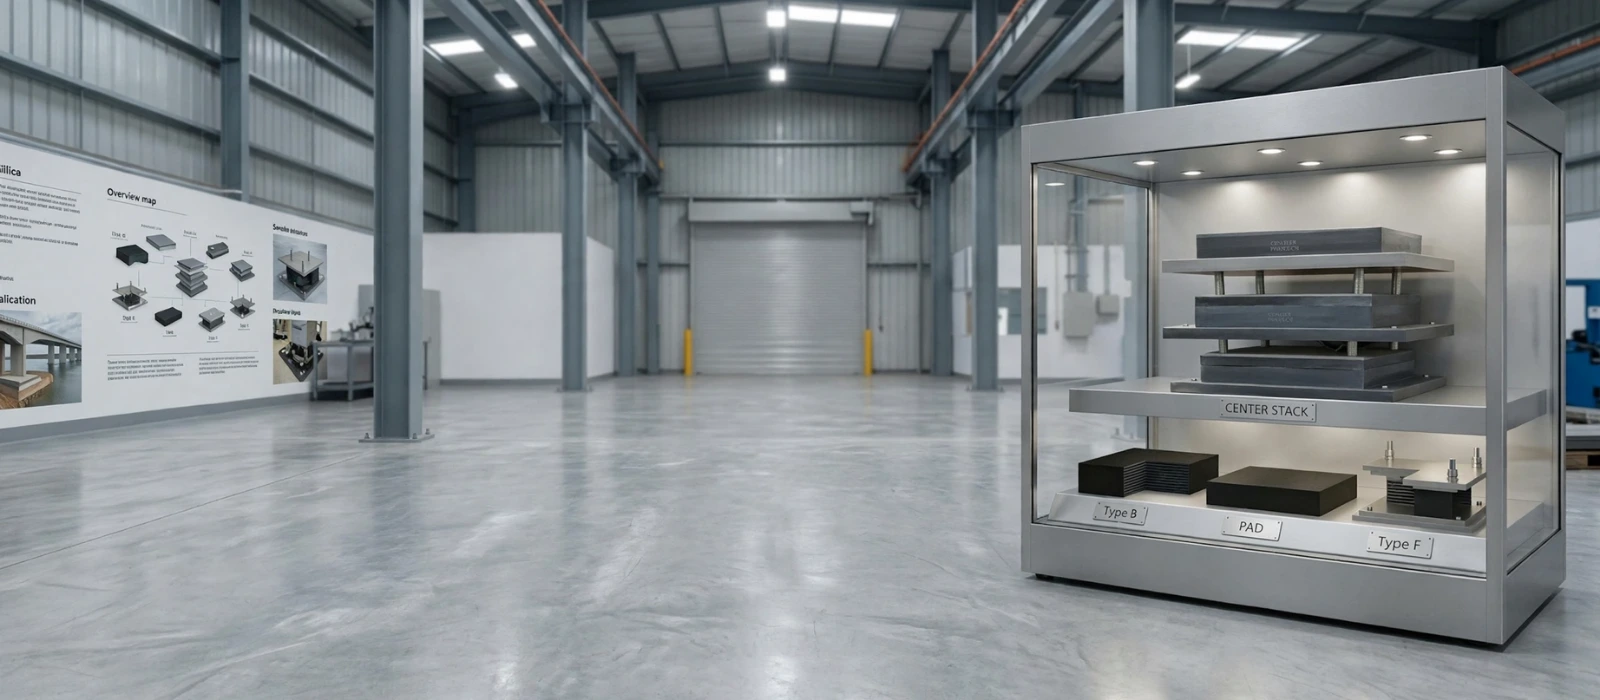
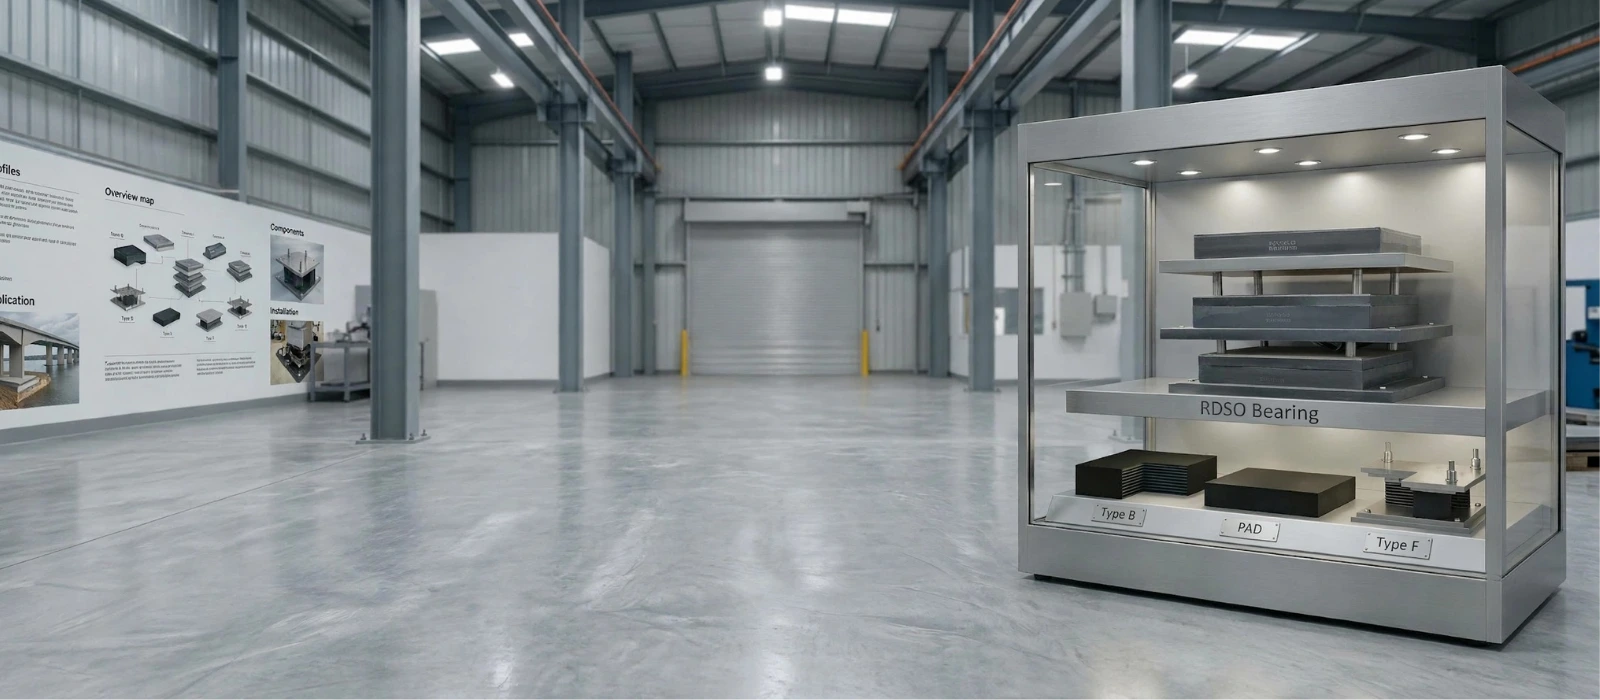
polymer

diff --git a/services.php b/services.php
@@ -517,7 +517,7 @@ function render_bearing_gallery($images, $title, $carousel_id) {
             <a href="#type-e" class="bearing-nav-pill"><i class="fa-solid fa-square-binary text-primary"></i> Type E</a>
             <a href="#type-f" class="bearing-nav-pill"><i class="fa-solid fa-anchor text-primary"></i> Type F</a>
             <a href="#type-g" class="bearing-nav-pill"><i class="fa-solid fa-gauge-high text-primary"></i> Type G</a>
-            <a href="#type-h" class="bearing-nav-pill"><i class="fa-solid fa-arrows-left-right text-primary"></i> Type H</a>
+            <a href="#type-h" class="bearing-nav-pill"><i class="fa-solid fa-arrows-left-right text-primary"></i> Type H</a>  
             <a href="#type-i" class="bearing-nav-pill"><i class="fa-solid fa-wave-square text-primary"></i> Type I</a>
             <a href="#type-rdso" class="bearing-nav-pill"><i class="fa-solid fa-train text-primary"></i> Type RDSO</a>
             <a href="#pot-ptfe" class="bearing-nav-pill"><i class="fa-solid fa-circle-dot text-primary"></i> POT / PTFE</a>
@@ -526,7 +526,7 @@ function render_bearing_gallery($images, $title, $carousel_id) {
         </div>
 
         <!-- IRC:83 Master Classification Reference Box -->
-        <div class="mb-5 wow fadeInUp" data-wow-delay=".2s">
+        <!-- <div class="mb-5 wow fadeInUp" data-wow-delay=".2s">
             <div class="irc-table-box p-3 p-md-4 shadow-sm">
                 <div class="d-flex flex-wrap align-items-center justify-content-between gap-3 mb-3">
                     <div>
@@ -552,7 +552,7 @@ function render_bearing_gallery($images, $title, $carousel_id) {
                     <div class="small text-muted mt-2"><i class="fa-solid fa-hand-pointer text-primary me-1"></i>Click table image to view full high-resolution specifications</div>
                 </div>
             </div>
-        </div>
+        </div> -->
 
         <!-- ============================================================
              Product 01: Type A Plain Pad / Strip Bearings
